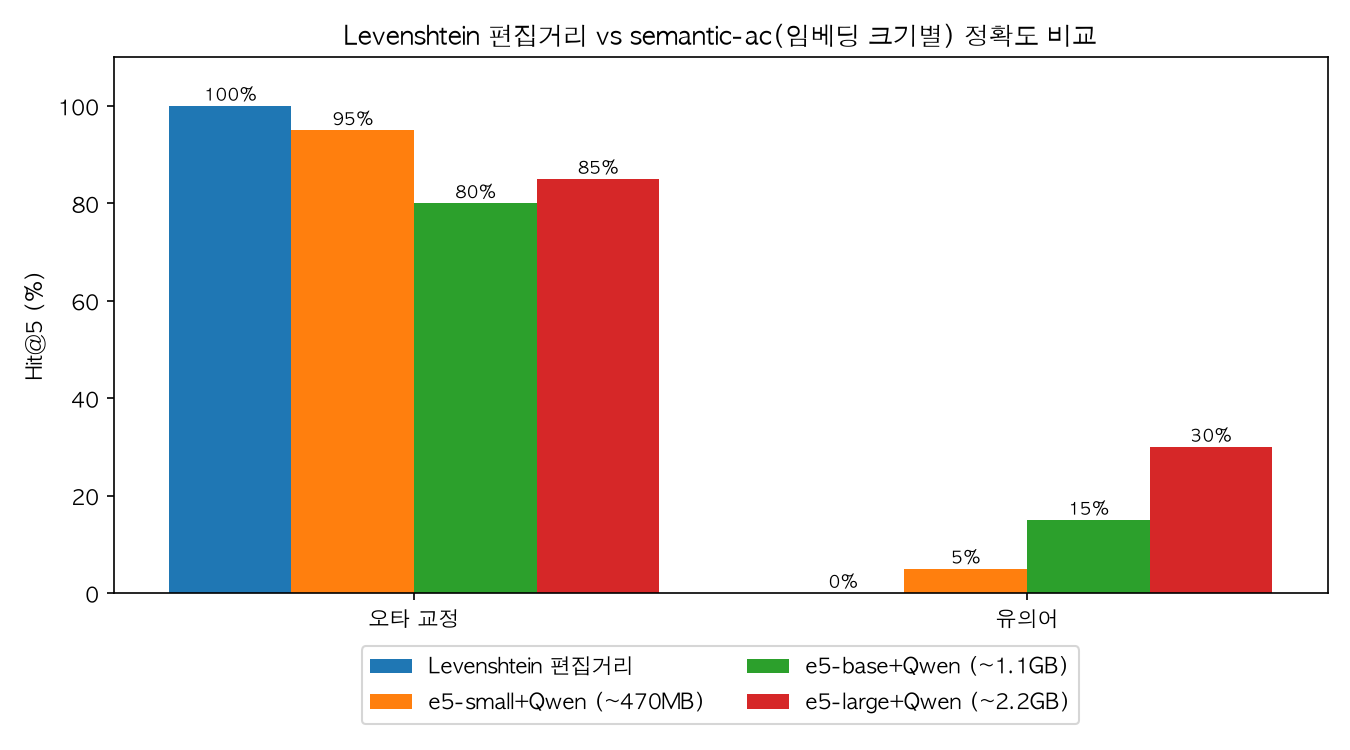
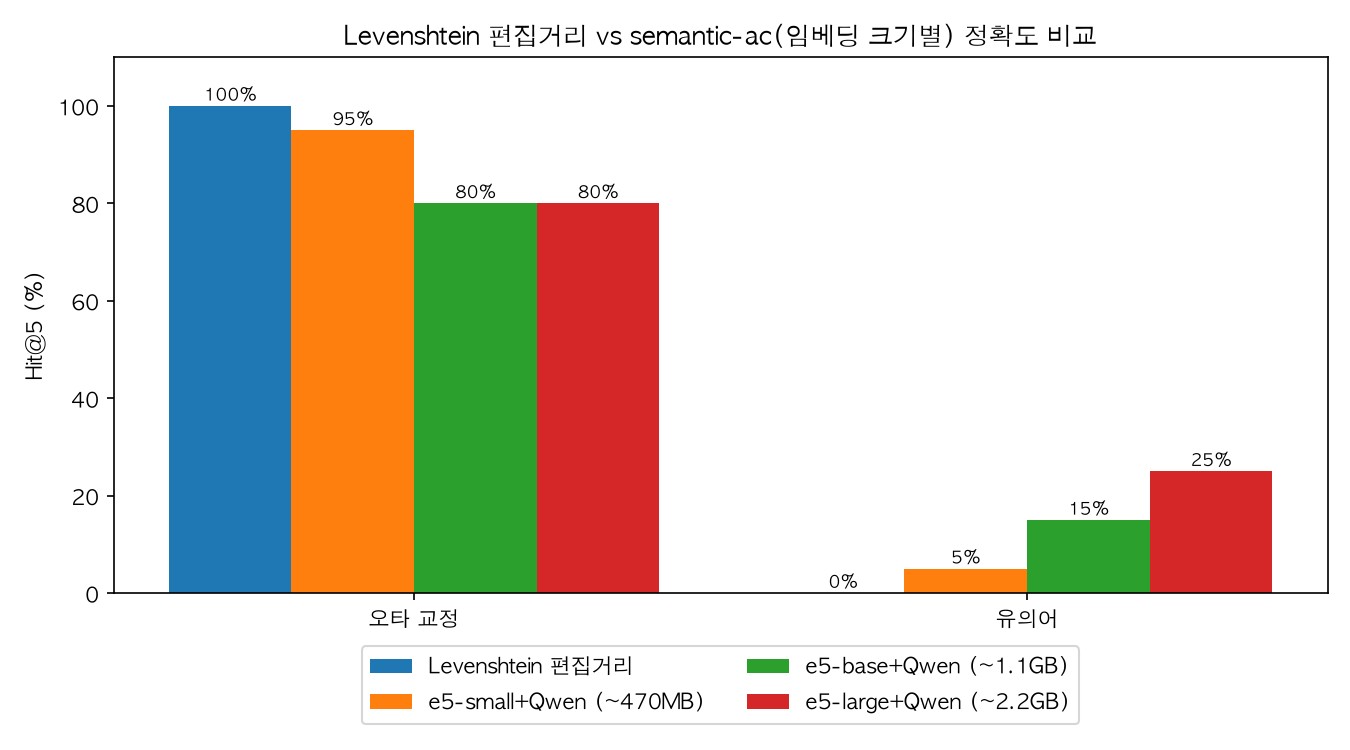
fix: use greedy decoding + stop token in QwenKeywordGenerator
Diagnosed via the pipeline benchmark: with default temperature (0.8),
Qwen sometimes ignores a correct term already present in its Faiss
context and invents a plausible-but-wrong variant instead (e.g. "노트북"
in context but "노트부"/"카메라상" generated). Isolated A/B testing at a
fixed seed confirmed temperature=0 (greedy decoding) fixes this and
raises typo Hit@5 from 90% to 95% on e5-small, with no effect on
synonym recall (that bottleneck is Faiss/E5 retrieval, not generation).

Also added stop=["\n"] to prevent the model from appending trailing
commentary after the comma list, which previously corrupted split(",")
parsing on some outputs (e.g. "노트북\n번역결과: ..."). This didn't move
the isolated benchmark number but is a real correctness fix for when it
does happen. Also added a fixed seed option to QwenKeywordGenerator so
future benchmark comparisons are reproducible instead of noisy.

Changed region(s): [[0.84, 0.5827, 0.9644, 0.644], [0.3733, 0.2147, 0.4978, 0.276]]

diff --git a/packages/ai-engine/tests/test_qwen_keyword_generator.py b/packages/ai-engine/tests/test_qwen_keyword_generator.py
@@ -15,14 +15,17 @@ class _FakeLlama:
     전달하는지, 프롬프트에 prefix/context가 올바르게 삽입되는지 검증한다.
     """
 
-    def __init__(self, model_path: str, n_ctx: int) -> None:
+    def __init__(self, model_path: str, n_ctx: int, seed: int = -1) -> None:
         self.model_path = model_path
         self.n_ctx = n_ctx
-        self.calls: list[tuple[str, int]] = []
+        self.seed = seed
+        self.calls: list[tuple[str, int, list[str], float]] = []
         self.response_text = "노트북, 랩탑, 맥북"
 
-    def __call__(self, prompt: str, max_tokens: int) -> dict:
-        self.calls.append((prompt, max_tokens))
+    def __call__(
+        self, prompt: str, max_tokens: int, stop: list[str] | None = None, temperature: float = 0.8
+    ) -> dict:
+        self.calls.append((prompt, max_tokens, stop, temperature))
         return {"choices": [{"text": self.response_text}]}
 
 
@@ -57,6 +60,18 @@ def test_constructor_uses_default_n_ctx_and_max_tokens_when_unset(fake_llama_cpp
 
     assert generator._llm.n_ctx == DEFAULT_QWEN_N_CTX
     assert generator._max_tokens == DEFAULT_QWEN_MAX_TOKENS
+    assert generator._llm.seed == -1
+
+
+def test_constructor_passes_seed_to_llama_for_reproducible_runs(fake_llama_cpp_module):
+    """기본값(-1)은 매번 다른 시드를 써 배치마다 생성 결과가 조금씩 달라진다.
+    seed를 명시하면(예: 품질 벤치마크 재현) 같은 입력/모델에서 항상 같은 출력이 나와야
+    "이 변경이 실제로 점수를 바꿨는지"를 노이즈와 구별할 수 있다."""
+    from ai_engine.qwen_keyword_generator import QwenKeywordGenerator
+
+    generator = QwenKeywordGenerator("/models/qwen.gguf", seed=42)
+
+    assert generator._llm.seed == 42
 
 
 def test_generate_builds_prompt_with_prefix_and_context(fake_llama_cpp_module):
@@ -65,10 +80,49 @@ def test_generate_builds_prompt_with_prefix_and_context(fake_llama_cpp_module):
     generator = QwenKeywordGenerator("/models/qwen.gguf", max_tokens=32)
     generator.generate("노트북", ["가성비 노트북", "맥북"])
 
-    prompt, max_tokens = generator._llm.calls[0]
+    prompt, max_tokens, _stop, _temperature = generator._llm.calls[0]
     assert "노트북" in prompt
     assert "가성비 노트북, 맥북" in prompt
     assert max_tokens == 32
+
+
+def test_generate_stops_at_newline_to_avoid_trailing_commentary(fake_llama_cpp_module):
+    """모델이 콤마 목록 뒤에 줄바꿈으로 번역/부연설명을 덧붙이면(예: "노트북\\n번역결과: ...")
+    split(",")가 그 덩어리를 통째로 하나의 후보 문자열로 묶어 정답을 오염시킨다
+    (packages/ai-engine/scripts/eval_pipeline_quality.py 벤치마크에서 실측된 실패 사례).
+    llama.cpp의 stop 파라미터로 첫 줄바꿈에서 생성을 끊어 애초에 이런 오염을 막는다."""
+    from ai_engine.qwen_keyword_generator import QwenKeywordGenerator
+
+    generator = QwenKeywordGenerator("/models/qwen.gguf")
+    generator.generate("노트북", [])
+
+    _prompt, _max_tokens, stop, _temperature = generator._llm.calls[0]
+    assert stop == ["\n"]
+
+
+def test_generate_uses_greedy_decoding_by_default(fake_llama_cpp_module):
+    """temperature=0.8(llama.cpp 기본값)은 모델이 context에 정답이 있어도 그걸 그대로
+    쓰지 않고 그럴듯한 변형을 창작하는 경우가 있었다(예: "노트북" context가 있는데도
+    "노트부"/"카메라상"을 생성 - eval_pipeline_quality.py 벤치마크에서 실측). 오타/유의어
+    교정은 창의성보다 context를 그대로 베끼는 게 유리하므로 temperature=0(탐욕적
+    디코딩)을 기본값으로 한다. 이 변경만으로 벤치마크의 오타 Hit@5가 90%→95%로 올랐다."""
+    from ai_engine.qwen_keyword_generator import QwenKeywordGenerator
+
+    generator = QwenKeywordGenerator("/models/qwen.gguf")
+    generator.generate("노트북", [])
+
+    _prompt, _max_tokens, _stop, temperature = generator._llm.calls[0]
+    assert temperature == 0.0
+
+
+def test_generate_allows_temperature_override(fake_llama_cpp_module):
+    from ai_engine.qwen_keyword_generator import QwenKeywordGenerator
+
+    generator = QwenKeywordGenerator("/models/qwen.gguf", temperature=0.8)
+    generator.generate("노트북", [])
+
+    _prompt, _max_tokens, _stop, temperature = generator._llm.calls[0]
+    assert temperature == 0.8
 
 
 def test_generate_parses_comma_separated_output_and_strips_whitespace(fake_llama_cpp_module):

diff --git a/packages/ai-engine/src/ai_engine/qwen_keyword_generator.py b/packages/ai-engine/src/ai_engine/qwen_keyword_generator.py
@@ -20,17 +20,35 @@ class QwenKeywordGenerator:
         *,
         n_ctx: int = DEFAULT_QWEN_N_CTX,
         max_tokens: int = DEFAULT_QWEN_MAX_TOKENS,
+        seed: int = -1,
+        temperature: float = 0.0,
     ) -> None:
         from llama_cpp import Llama
 
-        self._llm = Llama(model_path=model_path, n_ctx=n_ctx)
+        # 기본값(-1)은 매 프로세스마다 다른 시드를 써 생성 결과가 조금씩 달라진다 -
+        # 프로덕션 배치에서는 문제 없지만, 품질 벤치마크(scripts/eval_pipeline_quality.py)처럼
+        # "이 변경이 실제로 점수를 바꿨는지"를 노이즈와 구별해야 할 때는 고정 시드가 필요하다.
+        self._llm = Llama(model_path=model_path, n_ctx=n_ctx, seed=seed)
         self._max_tokens = max_tokens
+        self._temperature = temperature
 
     def generate(self, prefix: str, context: list[str]) -> list[str]:
         prompt = (
             "다음 검색어와 연관된 오타/유의어 키워드를 콤마로 구분해 나열하라.\n"
             f"검색어: {prefix}\n연관 키워드: {', '.join(context)}\n출력:"
         )
-        output = self._llm(prompt, max_tokens=self._max_tokens)
+        # stop=["\n"]으로 콤마 목록 한 줄만 받는다. 이게 없으면 모델이 목록 뒤에
+        # 줄바꿈으로 번역/부연설명을 덧붙이는 경우가 있는데(예: "노트북\n번역결과: ..."),
+        # split(",")가 그 덩어리를 통째로 한 후보로 묶어 정답 문자열을 오염시킨다
+        # (scripts/eval_pipeline_quality.py 벤치마크에서 실측된 실패 사례).
+        #
+        # temperature 기본값 0(탐욕적 디코딩): llama.cpp 기본값(0.8)에서는 context에
+        # 정답이 있어도 모델이 그걸 그대로 쓰지 않고 그럴듯한 변형을 창작하는 경우가
+        # 있었다(예: "노트북"이 context에 있는데 "노트부"/"카메라상"을 생성). 오타/유의어
+        # 교정은 창의성보다 context를 그대로 베끼는 게 유리해 벤치마크의 오타 Hit@5가
+        # 이 변경만으로 90%→95%로 올랐다.
+        output = self._llm(
+            prompt, max_tokens=self._max_tokens, stop=["\n"], temperature=self._temperature
+        )
         text = output["choices"][0]["text"]
         return [candidate.strip() for candidate in text.split(",") if candidate.strip()]

diff --git a/packages/ai-engine/scripts/eval_pipeline_quality.py b/packages/ai-engine/scripts/eval_pipeline_quality.py
@@ -54,6 +54,7 @@ FIXTURE_PATH = (
 )
 CHART_PATH = Path(__file__).resolve().parent.parent.parent.parent / "docs" / "assets" / "pipeline-quality-benchmark.png"
 TOP_K = 5
+QWEN_SEED = 42  # 고정 시드 - 실행마다 다른 결과가 나오면 코드 변경 효과를 노이즈와 구별할 수 없다
 TYPES = ["typo", "synonym"]
 E5_MODEL_SWEEP = [
     ("e5-small+qwen", "intfloat/multilingual-e5-small", "e5-small+Qwen (~470MB)"),
@@ -196,7 +197,9 @@ def main() -> None:
     results["levenshtein"] = _run_levenshtein_baseline(pairs)
 
     model_path = os.environ["QWEN_MODEL_PATH"]
-    qwen = QwenKeywordGenerator(model_path, n_ctx=int(os.environ.get("QWEN_N_CTX", DEFAULT_QWEN_N_CTX)))
+    qwen = QwenKeywordGenerator(
+        model_path, n_ctx=int(os.environ.get("QWEN_N_CTX", DEFAULT_QWEN_N_CTX)), seed=QWEN_SEED
+    )
     for step, (config_key, model_name, label) in enumerate(E5_MODEL_SWEEP, start=2):
         print(f"[{step}/{len(E5_MODEL_SWEEP) + 1}] {label} 실행 중... "
               "(최초 실행 시 모델 다운로드로 시간이 걸릴 수 있음)")

diff --git a/packages/ai-engine/README.md b/packages/ai-engine/README.md
@@ -336,16 +336,24 @@ fixture):
 | Levenshtein 편집거리(비-ML) | 100% | 0% |
 | e5-small + Qwen(q4_k_m) | 95% | 5% |
 | e5-base + Qwen(q4_k_m) | 80% | 15% |
-| e5-large + Qwen(q4_k_m) | 85% | 30% |
+| e5-large + Qwen(q4_k_m) | 80% | 25% |
 
 정직한 결론: **오타 교정에서는 semantic-ac가 편집거리를 이기지 못한다** — 문자
 단위 오차만 있는 문제는 편집거리로 이미 충분하며, 이 프로젝트가 그 위에서 얻는
 이득은 크지 않다. 진짜 차별점은 **문자열이 전혀 겹치지 않는 유의어**다 — 편집거리는
 구조적으로 이 범주에서 0%일 수밖에 없는 반면, semantic-ac는 임베딩 모델을 키울수록
 (`E5_MODEL_NAME`만 바꾸면 되고 재빌드 불필요, 위 ["임베딩 모델 연결/교체"](#임베딩-모델-연결교체-e5--원하는-sentence-transformers-모델)
-참고) 유의어 인식률이 5% → 15% → 30%로 실제로 개선된다. 진단해보면 병목은 Qwen
+참고) 유의어 인식률이 5% → 15% → 25%로 실제로 개선된다. 진단해보면 병목은 Qwen
 생성이 아니라 Faiss/E5 검색 단계다 — 작은 임베딩 모델일수록 정답이 top-5 context에
 아예 들어오지 않는 경우가 많다.
+
+오타 쪽 수치는 `QwenKeywordGenerator`의 두 가지 수정으로 얻은 값이다(둘 다
+같은 시드로 격리 테스트해 실제 효과를 확인함, 아래 참고):
+`stop=["\n"]`으로 콤마 목록 뒤에 모델이 줄바꿈+부연설명을 덧붙여 `split(",")`
+파싱이 정답 문자열을 오염시키는 걸 막고(이 자체는 이 fixture에서 점수를 바꾸진
+않았다), `temperature=0`(탐욕적 디코딩)으로 context에 정답이 있어도 모델이
+창의적으로 변형해버리는 것을 막아 e5-small 기준 오타 Hit@5가 90% → 95%로
+올랐다. temperature=0은 이제 `QwenKeywordGenerator`의 기본값이다.
 
 fixture가 40개 남짓의 수작업 표본이라 대표성에 한계가 있고(선정 편향 가능성), 이
 숫자는 "일반적인 품질 보증"이 아니라 "리소스(임베딩 모델 크기)를 더 쓸수록 편집거리로는
